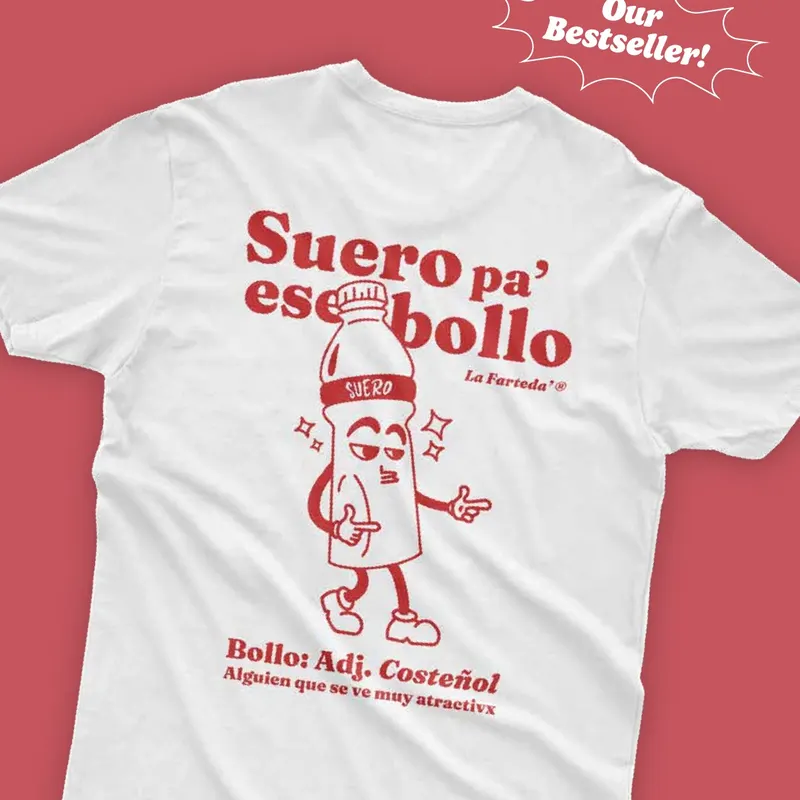
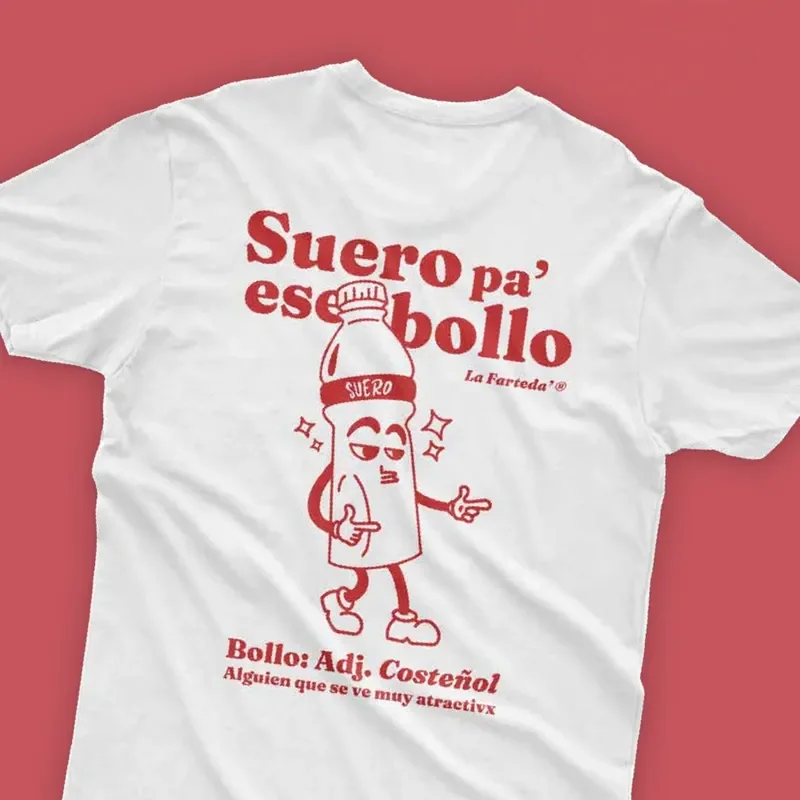
Cuarta ronda de Juan (24 nov): precios de papaya y mamón, fotos por color del Unboxing, Suero sin globo, camiseta de WuandaCrafts «desde», moneda propia en WuandaCrafts y «atrás» dentro del recomendador

Changed region(s): [[0.625, 0.0, 0.9688, 0.125]]

diff --git a/prototipo/recursos/app.js b/prototipo/recursos/app.js
@@ -424,13 +424,29 @@
       }, { rootMargin: '0px 0px 30% 0px' });
       io.observe($('#kit-resultado'));
     }
+    let ultimoHash = location.hash;
+    window.addEventListener('hashchange', () => { ultimoHash = location.hash; });
+    window.addEventListener('popstate', (e) => {
+      // Un cambio de ancla (#servicios…) no es un paso del recomendador: sus entradas del historial no cambian la dirección.
+      if (location.hash !== ultimoHash) { ultimoHash = location.hash; return; }
+      let paso = (e.state && e.state.nfgKit) || 1;
+      if (paso >= 2 && !kit.negocio) paso = 1; // tras recargar, la elección se perdió: se vuelve al principio
+      if (paso === 3 && !kit.etapa) paso = 2;
+      if (paso === kit.paso) return;
+      kit.paso = paso;
+      pintarKit({ animar: true });
+      verCaja();
+    });
     $('#kit').addEventListener('click', (e) => {
       const n = e.target.closest('[data-negocio]');
       const s = e.target.closest('[data-etapa]');
       const volver = e.target.closest('[data-volver]');
-      if (n) { kit.negocio = n.dataset.negocio; kit.paso = 2; }
-      if (s) { kit.etapa = s.dataset.etapa; kit.paso = 3; }
-      if (volver) kit.paso = 1;
+      // «Atrás» del navegador dentro del recomendador (Juan, 24 nov 2026: «sigo dando atrás y me saca de la página en lugar de volver a "What kind of
+      // business do you do"»): cada paso hacia adelante agrega una entrada al historial (misma dirección, sin cambiar la URL) y «atrás» vuelve al paso
+      // anterior en vez de salir de la página. «Cambiar» hace lo mismo que atrás hasta el paso 1.
+      if (n) { kit.negocio = n.dataset.negocio; kit.paso = 2; history.pushState({ nfgKit: 2 }, ''); }
+      if (s) { kit.etapa = s.dataset.etapa; kit.paso = 3; history.pushState({ nfgKit: 3 }, ''); }
+      if (volver) { kit.paso = 1; history.pushState({ nfgKit: 1 }, ''); } // «Cambiar» también es un paso: «atrás» lo deshace
       const trabajo = e.target.closest('[data-trabajo]');
       if (trabajo) { abrirProyecto(proyecto(trabajo.dataset.trabajo)); return; }
       if (n || s || volver) {
@@ -1007,23 +1023,27 @@
     // La moneda (Juan, 17 nov 2026): en Colombia, «los mismos precios pero en pesos», siempre como «desde»; el precio final se negocia por
     // WhatsApp. Se comparte con La Fartedá (nfg-pais). Cada precio por pieza se pasa a pesos (tipo de cambio W.cop.porUsd, redondeado al millar;
     // la camiseta, además, con su copFactor) y después se multiplica por la cantidad.
-    let moneda = leer('nfg-pais') === 'col' ? 'cop' : 'usd';
+    // La moneda de WuandaCrafts tiene su propia clave (Juan, 24 nov 2026: «entré a las Cans y estaban solo en COP»: venía de haber elegido Colombia en
+    // La Fartedá, que usa «nfg-pais»). Por defecto, dólares, sin importar el idioma.
+    let moneda = leer('nfg-moneda-wc') === 'cop' ? 'cop' : 'usd';
     const enCop = () => moneda === 'cop';
     const aMoneda = (n, p) => (enCop() ? Math.round((n * ((p && p.copFactor) || 1) * W.cop.porUsd) / W.cop.redondeo) * W.cop.redondeo : n);
     const dinero = (n) => (enCop() ? '$' + n.toLocaleString('es-CO') + ' COP' : usd(n));
+    // El «desde» de una pieza sin escala (calcomanía, camiseta): en pesos, el precio que dio Juan si lo hay (precioDesdeCop); si no, el convertido.
+    const desdeDe = (p) => (enCop() && p.precioDesdeCop != null ? p.precioDesdeCop : aMoneda(p.precioDesde, p));
     const tarifaDe = (p, estilo) => W.tarifas[(estiloDe(p, estilo) || {}).precio || p.precio] || null;
     const escalonDe = (cantidad) => Math.max(0, W.escalas.findIndex((r) => cantidad >= r.desde && (r.hasta == null || cantidad <= r.hasta)));
     // { unidad, desde }: el precio por pieza para esa cantidad (en la moneda de la página) y si es un «desde». null si la pieza no tiene precio.
     function precioDe(p, estilo, cantidad) {
       const tf = tarifaDe(p, estilo);
       if (tf) return { unidad: aMoneda(tf[escalonDe(cantidad)], p), desde: enCop() };
-      return p.precioDesde != null ? { unidad: aMoneda(p.precioDesde, p), desde: true } : null;
+      return p.precioDesde != null ? { unidad: desdeDe(p), desde: true } : null;
     }
     const montoTxt = (n, desde) => (desde ? t('wc.desde_precio', { precio: dinero(n) }) : dinero(n));
     // La tarjeta: el precio de 1 y el de 12 o más («desde» si cambia según el estilo o si es en pesos).
     function precioTarjeta(p) {
       const tarifas = (p.variantes && p.variantes.some((v) => v.precio) ? p.variantes.map((v) => W.tarifas[v.precio || p.precio]) : [W.tarifas[p.precio]]).filter(Boolean);
-      if (!tarifas.length) return p.precioDesde != null ? `<b>${esc(t('wc.desde_precio', { precio: dinero(aMoneda(p.precioDesde, p)) }))}</b>` : `${esc(t('wc.desde'))} <b>$ —</b>`;
+      if (!tarifas.length) return p.precioDesde != null ? `<b>${esc(t('wc.desde_precio', { precio: dinero(desdeDe(p)) }))}</b>` : `${esc(t('wc.desde'))} <b>$ —</b>`;
       const uno = Math.min(...tarifas.map((tf) => aMoneda(tf[0], p))), mucho = Math.min(...tarifas.map((tf) => aMoneda(tf[tf.length - 1], p)));
       const varios = enCop() || new Set(tarifas.map((tf) => tf[0])).size > 1;
       return `<b>${esc(varios ? t('wc.desde_precio', { precio: dinero(uno) }) : dinero(uno))}</b> <small>${esc(t('wc.precio_cantidad', { n: W.escalas[W.escalas.length - 1].desde, precio: dinero(mucho) }))}</small>`;
@@ -1103,7 +1123,7 @@
     function cambiarMoneda(nueva) {
       if ((nueva === 'cop') === enCop()) return;
       moneda = nueva;
-      guardar('nfg-pais', enCop() ? 'col' : 'usa');
+      guardar('nfg-moneda-wc', enCop() ? 'cop' : 'usd');
       pintarCatalogo();
       // «Tu pedido» se actualiza en su sitio (el formulario no se vuelve a dibujar: se pierde el foco y lo que se esté escribiendo)
       const f = cajon.querySelector('form');
@@ -1206,7 +1226,7 @@
       const gCantidad = `<div class="grupo"><div class="grupo-cab">${esc(t(esCalco ? 'wc.cuantos_pliegos' : 'wc.cuantos'))}</div>`
         + `<div class="cantidad-fila"><div class="cantidad"><button type="button" data-cant="-1" aria-label="${esc(t('car.menos'))}">${icono('i-menos')}</button>`
         + `<input id="p-cant" type="number" min="1" max="500" inputmode="numeric" aria-label="${esc(t(esCalco ? 'wc.cuantos_pliegos' : 'wc.cuantos'))}" />`
-        + `<button type="button" data-cant="1" aria-label="${esc(t('car.mas'))}">${icono('i-mas')}</button></div><p>${esc(t(esCalco ? 'wc.escala_nota_pliego' : 'wc.escala_nota'))}</p></div>`
+        + `<button type="button" data-cant="1" aria-label="${esc(t('car.mas'))}">${icono('i-mas')}</button></div><p>${esc(t(esCalco ? 'wc.escala_nota_pliego' : p.precioDesde != null ? 'wc.escala_nota_desde' : 'wc.escala_nota'))}</p></div>`
         + `<div class="escala"><div class="escala-cab"><span>${esc(t(esCalco ? 'wc.escala_pliego' : 'wc.escala_pieza'))}</span><span>${esc(t(enCop() ? 'wc.cop_ref' : 'wc.usd_envio'))}</span></div>`
         + (tarifaDe(p, elec.estilo) ? W.escalas : [{ desde: 1, hasta: null }]).map((r, i) => `<div class="escala-fila" data-fila="${i}"><span>${esc(r.hasta == null ? t('wc.rango_mas', { a: r.desde }) : t('wc.rango', { a: r.desde, b: r.hasta }))}<em hidden>${esc(t('wc.tu_cantidad'))}</em></span><span class="escala-precio"></span></div>`).join('')
         + '</div></div>';
@@ -1269,7 +1289,7 @@
       const tf = tarifaDe(p, elec.estilo), pr = precioDe(p, elec.estilo, elec.cantidad);
       const activa = tf ? escalonDe(elec.cantidad) : 0;
       $$('.escala-fila', v).forEach((f, i) => { f.classList.toggle('activa', i === activa); $('em', f).hidden = i !== activa; });
-      $$('.escala-precio', v).forEach((s, i) => { s.textContent = tf ? montoTxt(aMoneda(tf[i], p), enCop()) : montoTxt(aMoneda(p.precioDesde, p), true); });
+      $$('.escala-precio', v).forEach((s, i) => { s.textContent = tf ? montoTxt(aMoneda(tf[i], p), enCop()) : montoTxt(desdeDe(p), true); });
       $('.escala-cab span:last-child', v).textContent = t(enCop() ? 'wc.cop_ref' : 'wc.usd_envio');
       $('#p-envio-nota', v).textContent = t(enCop() ? 'wc.envio_cop' : 'wc.envio_incluido');
       if (pr) {

diff --git a/prototipo/recursos/datos.js b/prototipo/recursos/datos.js
@@ -229,13 +229,14 @@ window.NFG_DATOS = {
     camiseta: { usd: 39.95, cop: 69900 },
     clasica: { usd: 39.95, cop: 50000 },
     tote: { usd: 24.99, cop: 39900 },
-    // Papaya y Mamón: SIN precio todavía (Nicola, 22 nov 2026: «no le pongas el precio, Juan no me lo ha dado»). Juan había dicho el 10 nov «Papaya es
-    // 99.000 + envío» (COP); se quitó hasta que lo confirme. Con usd y cop en null la web dice «Precio por confirmar» en las dos monedas.
-    papaya: { usd: null, cop: null },
-    mamon: { usd: null, cop: null },
+    // Papaya y Mamón (Juan, 24 nov 2026): papaya 90.000 COP / US$30; mamón 120.000 COP / US$40. Entre el 22 y el 24 nov salieron «Precio por
+    // confirmar» (con usd y cop en null la web lo dice en las dos monedas; sirve para un diseño nuevo sin precio).
+    papaya: { usd: 30, cop: 90000 },
+    mamon: { usd: 40, cop: 120000 },
   },
   disenos: [
-    // Los dos diseños nuevos van de primeros y con la etiqueta «Más vendido» (Nicola, 22 nov 2026: «pon de primeritos la franela de la papaya y el mamón»).
+    // Los dos diseños nuevos van de primeros (Nicola, 22 nov 2026). La papaya lleva «Más vendido»; el mamón no «aún» (Juan, 24 nov); el Suero
+    // pierde el globo «Our Bestseller!» de su foto (la etiqueta «Más vendido» de la tarjeta se queda).
     // Diseño nuevo (Juan, 17 nov 2026: «agrega la camiseta de papaya, las fotos están debajo»): las fotos son las de la sección «Así se ve»
     // de la página. Solo camiseta, crema. Sin precio todavía (ver «precios»). La imagen plana es el mockup de la propuesta, de baja resolución:
     // falta el del diseñador.
@@ -244,7 +245,7 @@ window.NFG_DATOS = {
       camiseta: { colores: ['crema'], galeria: ['lafarteda/estilo-07.webp', 'lafarteda/estilo-02.webp', 'lafarteda/estilo-01.webp', 'lafarteda/estilo-04.webp', 'lafarteda/estilo-05.webp'] } },
     // Mamón (22 nov 2026): los dos mockups sueltos del Drive de Juan (9 nov: «camiseta verde MAMÓN, Est. 2026»): la espalda y el frente. Solo
     // camiseta, verde oscuro. Sin precio todavía. El texto se apoya en lo que dice la propia camiseta (definición de «mamón» y la fruta).
-    { id: 'mamon', nombre: 'Mamón', precioCamiseta: 'mamon', masVendido: true,
+    { id: 'mamon', nombre: 'Mamón', precioCamiseta: 'mamon', // sin «Más vendido» todavía (Juan, 24 nov 2026)
       texto: { en: 'Mamón (adj.): a person, attitude or situation that is annoying, intense or heavy-going. It is also a tropical fruit.', es: 'Mamón (adj.): persona, actitud o situación fastidiosa, intensa o pesada. También es una fruta tropical.' },
       camiseta: { colores: ['verde'], galeria: ['productos/camiseta-mamon-frente.webp'] } },
     { id: 'clasica', nombre: 'La Fartedá Clásica', precioCamiseta: 'clasica',
@@ -264,7 +265,7 @@ window.NFG_DATOS = {
       tote: { colores: ['crema'] } },
     { id: 'unboxing', nombre: 'Unboxing de Adulto',
       texto: { en: 'Horror stories of adult life. Black in Spanish, white in English.', es: 'Cuentos de terror de la vida adulta. Negra en español, blanca en inglés.' },
-      camiseta: { colores: ['negro', 'blanco'], notaColor: { negro: { en: 'in Spanish', es: 'en español' }, blanco: { en: 'in English', es: 'en inglés' } } },
+      camiseta: { colores: ['negro', 'blanco'], imgs: { blanco: 'camiseta-unboxing-blanco.webp' }, notaColor: { negro: { en: 'in Spanish', es: 'en español' }, blanco: { en: 'in English', es: 'en inglés' } } },
       tote: { colores: ['crema', 'negro'], imgs: { crema: 'tote-unboxing-crema.webp' } } },
     { id: 'burro', nombre: 'Puya El Burro',
       texto: { en: '“¡Puya el burro!” — coastal slang for “step on it.”', es: '¡Puya el burro! Para los que van con todo.' },
@@ -392,8 +393,9 @@ window.NFG_DATOS = {
       { id: 'tote', cat: 'totes', icono: 'i-bolsa', tono: 'verde', titulo: { en: 'Tote bag', es: 'Tote bag' }, fotos: fotosWC('tote', ['color:natural', 'color:natural', 'color:natural', 'color:natural', 'color:natural', 'color:natural', 'color:natural', 'color:natural', 'color:negro', 'color:negro']), encuadre: '50% 40%',
         precio: 'tote', pie: { en: 'Tote bags with your name, a photo or your art', es: 'Tote bags con tu nombre, una foto o tu arte' }, colores: ['natural', 'negro'], coloresReales: true },
       { id: 'camiseta', cat: 'camisetas', icono: 'i-camiseta', tono: 'rosa', titulo: { en: 'T-shirt', es: 'Camiseta' }, fotos: fotosWC('camiseta', ['color:blanco', 'color:blanco', 'color:blanco', 'color:blanco', 'color:blanco', 'color:negro', 'color:negro', 'color:negro', 'color:verdemilitar', 'color:azulrey', 'color:azulrey', 'color:azulmarino', 'color:malva', 'color:crema', 'color:crema']), encuadre: '50% 50%',
-        precio: 'can', pie: { en: 'T-shirts with your name, your art or your logo', es: 'Camisetas con tu nombre, tu arte o tu logo' },
-        copFactor: 0.95, // Juan, 17 nov 2026: en Colombia la camiseta se veía desfasada: -5 %
+        // Juan, 24 nov 2026: «en USD las camisetas empezarían en $25, en COP en $50.000, envío incluido»: solo un «desde», sin escala por cantidad
+        // (antes llevaba la tarifa de Can y en pesos bajaba 5 %). El precio en pesos va tal cual lo dio Juan, sin convertir (precioDesdeCop).
+        precioDesde: 25, precioDesdeCop: 50000, pie: { en: 'T-shirts with your name, your art or your logo', es: 'Camisetas con tu nombre, tu arte o tu logo' },
         tamanos: ['S', 'M', 'L', 'XL'], colores: ['blanco', 'negro', 'verdemilitar', 'azulrey', 'azulmarino', 'malva', 'crema'], coloresReales: true },
       { id: 'hoodie', cat: 'hoodies', icono: 'i-hoodie', tono: 'naranja', titulo: { en: 'Hoodie', es: 'Hoodie' }, fotos: fotosWC('hoodie', ['color:negro', 'color:negro', 'color:vinotinto', 'color:celeste']), encuadre: '50% 45%',
         precio: 'hoodie', pie: { en: 'Hoodies with your name, your art or your logo', es: 'Hoodies con tu nombre, tu arte o tu logo' },

diff --git a/prototipo/recursos/textos.js b/prototipo/recursos/textos.js
@@ -305,7 +305,7 @@ window.NFG_T = {
     'lf.por_confirmar': 'Price to be confirmed',
     'lf.mas_por_confirmar': '+ price to be confirmed',
     'wc.nota_pais_usd': 'In US dollars, with shipping included in the USA.',
-    'wc.nota_pais_cop': 'The same prices, converted to Colombian pesos and shown as “starting at”. We agree on the final price on WhatsApp.',
+    'wc.nota_pais_cop': 'Starting prices in Colombian pesos. We agree on the final price on WhatsApp.',
     'wc.color_unico': 'Made in {color}: your art goes on top.',
     'wc.cop_ref': 'COP · starting at',
     'wc.envio_cop': 'Starting price in pesos. We confirm the final price on WhatsApp.',
@@ -337,6 +337,7 @@ window.NFG_T = {
     'wc.cuantos_pliegos': 'How many sheets?',
     'wc.escala_nota': 'The more you order, the less you pay per piece.',
     'wc.escala_nota_pliego': 'The print area is marked on the sheet.',
+    'wc.escala_nota_desde': 'Starting price, shipping included. We confirm the final price on WhatsApp.',
     'wc.escala_pieza': 'Price per piece',
     'wc.escala_pliego': 'Price per sheet',
     'wc.rango': '{a} to {b}',
@@ -708,7 +709,7 @@ window.NFG_T = {
     'lf.por_confirmar': 'Precio por confirmar',
     'lf.mas_por_confirmar': '+ precio por confirmar',
     'wc.nota_pais_usd': 'En dólares, con el envío incluido en EE.UU.',
-    'wc.nota_pais_cop': 'Los mismos precios, convertidos a pesos colombianos y como «desde». El precio final lo acordamos por WhatsApp.',
+    'wc.nota_pais_cop': 'Precios desde, en pesos colombianos. El precio final lo acordamos por WhatsApp.',
     'wc.color_unico': 'Se hace en {color}: tu arte va encima.',
     'wc.cop_ref': 'COP · desde',
     'wc.envio_cop': 'Precio desde, en pesos. El precio final lo confirmamos por WhatsApp.',
@@ -740,6 +741,7 @@ window.NFG_T = {
     'wc.cuantos_pliegos': '¿Cuántos pliegos?',
     'wc.escala_nota': 'Mientras más pidas, menos pagas por pieza.',
     'wc.escala_nota_pliego': 'El área de impresión está marcada en el pliego.',
+    'wc.escala_nota_desde': 'Precio desde, con el envío incluido. El precio final lo confirmamos por WhatsApp.',
     'wc.escala_pieza': 'Precio por pieza',
     'wc.escala_pliego': 'Precio por pliego',
     'wc.rango': '{a} a {b}',

diff --git a/prototipo/wuandacrafts/index.html b/prototipo/wuandacrafts/index.html
@@ -75,6 +75,17 @@
               <li data-t="wc.chip1"></li>
               <li data-t="wc.chip2"></li>
             </ul>
+            <div class="wc-moneda">
+              <div class="pais">
+                <svg class="icono" aria-hidden="true"><use href="#i-pais"/></svg>
+                <span data-t="wc.precios_en"></span>
+                <div class="pais-botones" role="group">
+                  <button type="button" data-wc-pais="usa" aria-pressed="true">USA · USD</button>
+                  <button type="button" data-wc-pais="col" aria-pressed="false">Colombia · COP</button>
+                </div>
+              </div>
+              <p class="wc-moneda-nota" id="wc-moneda-nota"></p>
+            </div>
           </div>
           <div class="regalos">
             <svg class="icono" aria-hidden="true"><use href="#i-regalo"/></svg>
@@ -82,17 +93,6 @@
             <button class="boton boton--crema boton--chico" type="button" id="regalos-cta" data-t="wc.regalos_cta"></button>
           </div>
           <div class="cat-tabs" id="wc-tabs" role="group" data-t-aria="wc.categorias"></div>
-          <div class="wc-moneda">
-            <div class="pais">
-              <svg class="icono" aria-hidden="true"><use href="#i-pais"/></svg>
-              <span data-t="wc.precios_en"></span>
-              <div class="pais-botones" role="group">
-                <button type="button" data-wc-pais="usa" aria-pressed="true">USA · USD</button>
-                <button type="button" data-wc-pais="col" aria-pressed="false">Colombia · COP</button>
-              </div>
-            </div>
-            <p class="wc-moneda-nota" id="wc-moneda-nota"></p>
-          </div>
           <div class="cat-grilla" id="wc-grilla"></div>
         </div>
       </section>

diff --git a/prototipo/recursos/estilos.css b/prototipo/recursos/estilos.css
@@ -800,7 +800,7 @@ dialog.cajon[open] { display: flex; flex-direction: column; animation: deslizar 
 .sub-grupo { display: grid; grid-template-columns: 76px minmax(0, 1fr); align-items: center; gap: 12px; }
 .sub-filtros .rotulo { font-size: 12.5px; font-weight: 800; letter-spacing: .1em; text-transform: uppercase; color: var(--wc-cafe); }
 /* El selector USD / COP del catálogo (17 nov 2026): el mismo que el de La Fartedá, con una nota debajo. */
-.wc-moneda { display: flex; flex-wrap: wrap; align-items: center; gap: 10px 18px; margin: -6px 0 26px; }
+.wc-moneda { display: flex; flex-wrap: wrap; align-items: center; gap: 10px 18px; margin: 22px 0 0; }
 .wc-moneda .pais-botones { border-color: var(--wc-linea); }
 .wc-moneda .pais-botones button[aria-pressed="true"] { background: var(--acento); }
 .wc-moneda-nota { margin: 0; flex: 1 1 260px; font-size: 13px; color: var(--wc-cafe); }
